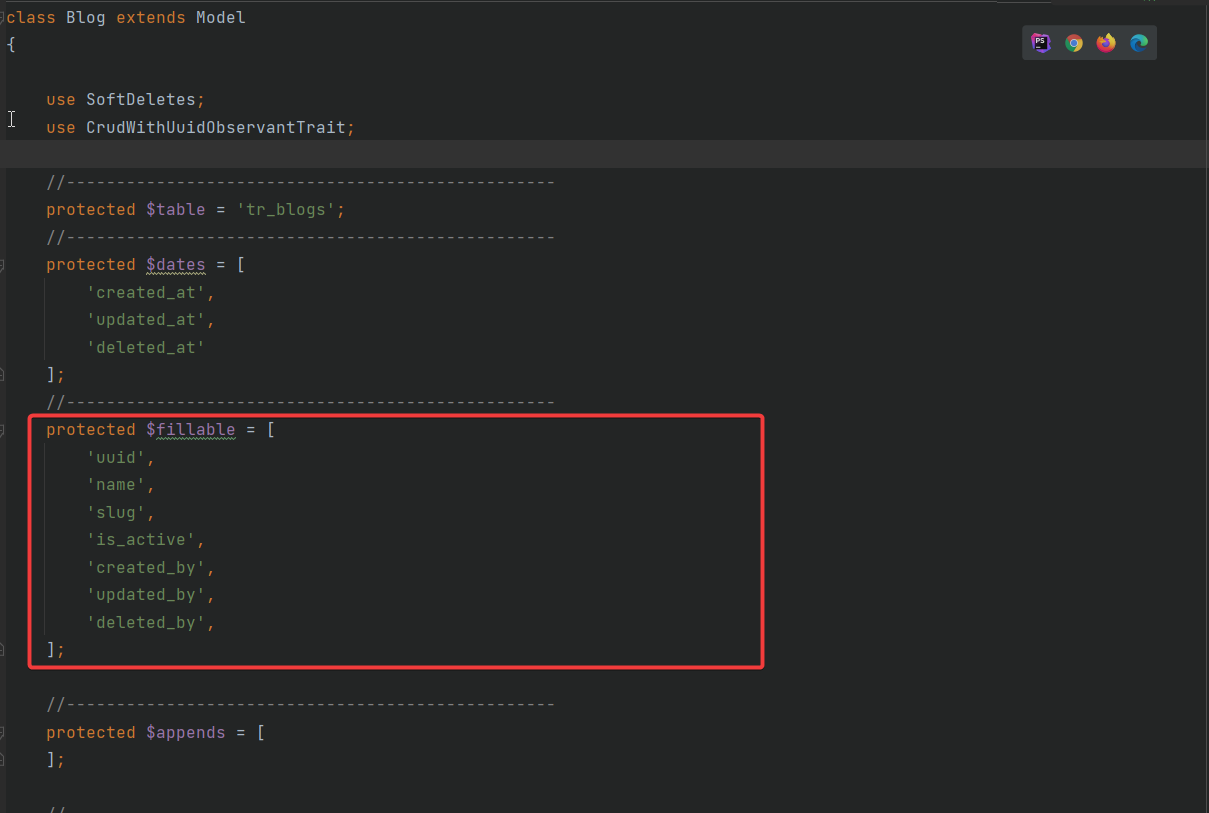
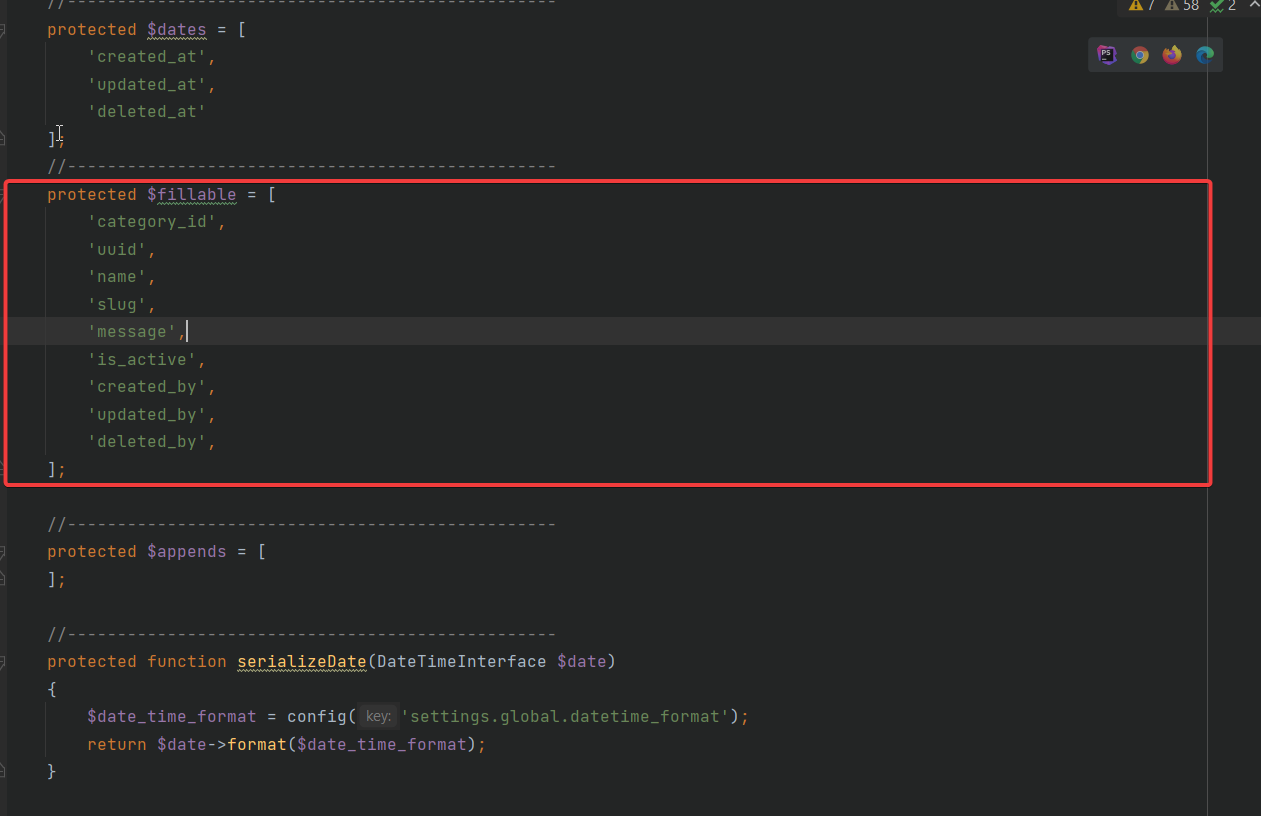
updated: generate-crud page

diff --git a/content/2.vaahcms-2/3.getting-started/8.generate-advanced-CRUD.md b/content/2.vaahcms-2/3.getting-started/8.generate-advanced-CRUD.md
@@ -3,11 +3,12 @@
 ## Introduction
 
 This is a guide to generating advance crud in VaahCms. In this CRUD operation we will be working 
-with two tables 1. tr_blogs  2. tr_categories. For every blog we will need to select its category from the 
-dropdown list that category will belong to tr_categories. Here 
-Before jumping to the CRUD part project should have generated the module and activated it.
-For the module and theme set up follow below link:-
-[https://github.com/webreinvent/vaahcli](https://github.com/webreinvent/vaahcli)
+with two tables.
+1. tr_blogs
+2. tr_categories.
+
+These two tables will be in one to many relationship as for every `Blog` we will need to select its category from the 
+dropdown list and that category list  will belong to `tr_categories` table.
 
 ::alert{type="warning"}
 NOTE   
@@ -108,7 +109,13 @@ export default routes;
 ```
 
 ## Step-7
-Add Crud link to your Module Dashboard
+
+::alert{type="warning"}
+NOTE   
+Follow the same steps as above to create the `CRUD` for `tr_categories` table also.
+::
+
+Now we need to add Crud link to your Module Dashboard
 
 ```modules/Travel/Vue/components/Aside.vue```
 
@@ -129,6 +136,11 @@ const items = ref([
                 icon: 'fa-regular fa-chart-bar',
                 to: "/blogs"
             },
+            {
+                label: 'Categories',
+                icon: 'fa-regular fa-chart-bar',
+                to: "/categories"
+            },
 
         ]
     },
@@ -142,28 +154,39 @@ This step is mandatory only if you have added extra columns in migration file.
 ::
 
 Update fillable Columns of your `Model` file  according to your database table schema.
+In our case we need to add `category_id` in the fillable columns list as every blog will have a category.
 
 Follow below image for reference:
 <img src="/images/generate-crud-1.png">
 
-##Step-9
-::alert{type="warning"}
-NOTE   
-This step is mandatory only if you want to fetch records from more than one table.
-::
-Update all the relationship between the newly created entity and existing entities.
+## Step-9
 
-Follow below image for reference:
-<img src="/images/generate-crud-2.png">
+Now we need to create the relationship between `tr_blogs` and `tr_categories` tables through respective `models`.
 
-## Step-10
-Visit the following url to access the dashboard of `Blog` CRUD.
+Follow below images for reference:   
 
-```<public-url>/backend/travel#/```
+Category.php
+<img src="/images/generate-crud-4.png">
 
-### This video will help you in generating CRUD
+Blog.php
+<img src="/images/generate-crud-3.png">
 
-<figure class="video_container">
-<iframe src="https://www.youtube.com/embed/8yc_OM6pIh8" frameborder="0" allowfullscreen="true" style="width: 100%; aspect-ratio: 16/9;"> </iframe>
-</figure>
+## Step 10
+
+Now we need to update our empty_item object with relationship. All the variables required for creation or updation of
+form should be included in empty_item object. To update empty_item object we need to use `getAssets()` function of `BlogsController`.   
+In our case we are getting the category dropdown from `tr_categories` table which is in one to many relationship with 
+`tr_blogs` table. So we need to update `empty_item` object with `category` variable.    
+
+Follow below images for reference:   
+`BlogsController`
+
+<img src="/images/generate-crud-5.png">
+
+`Form.vue`
+
+<img src="/images/generate-crud-6.png">
+
+
+
 
